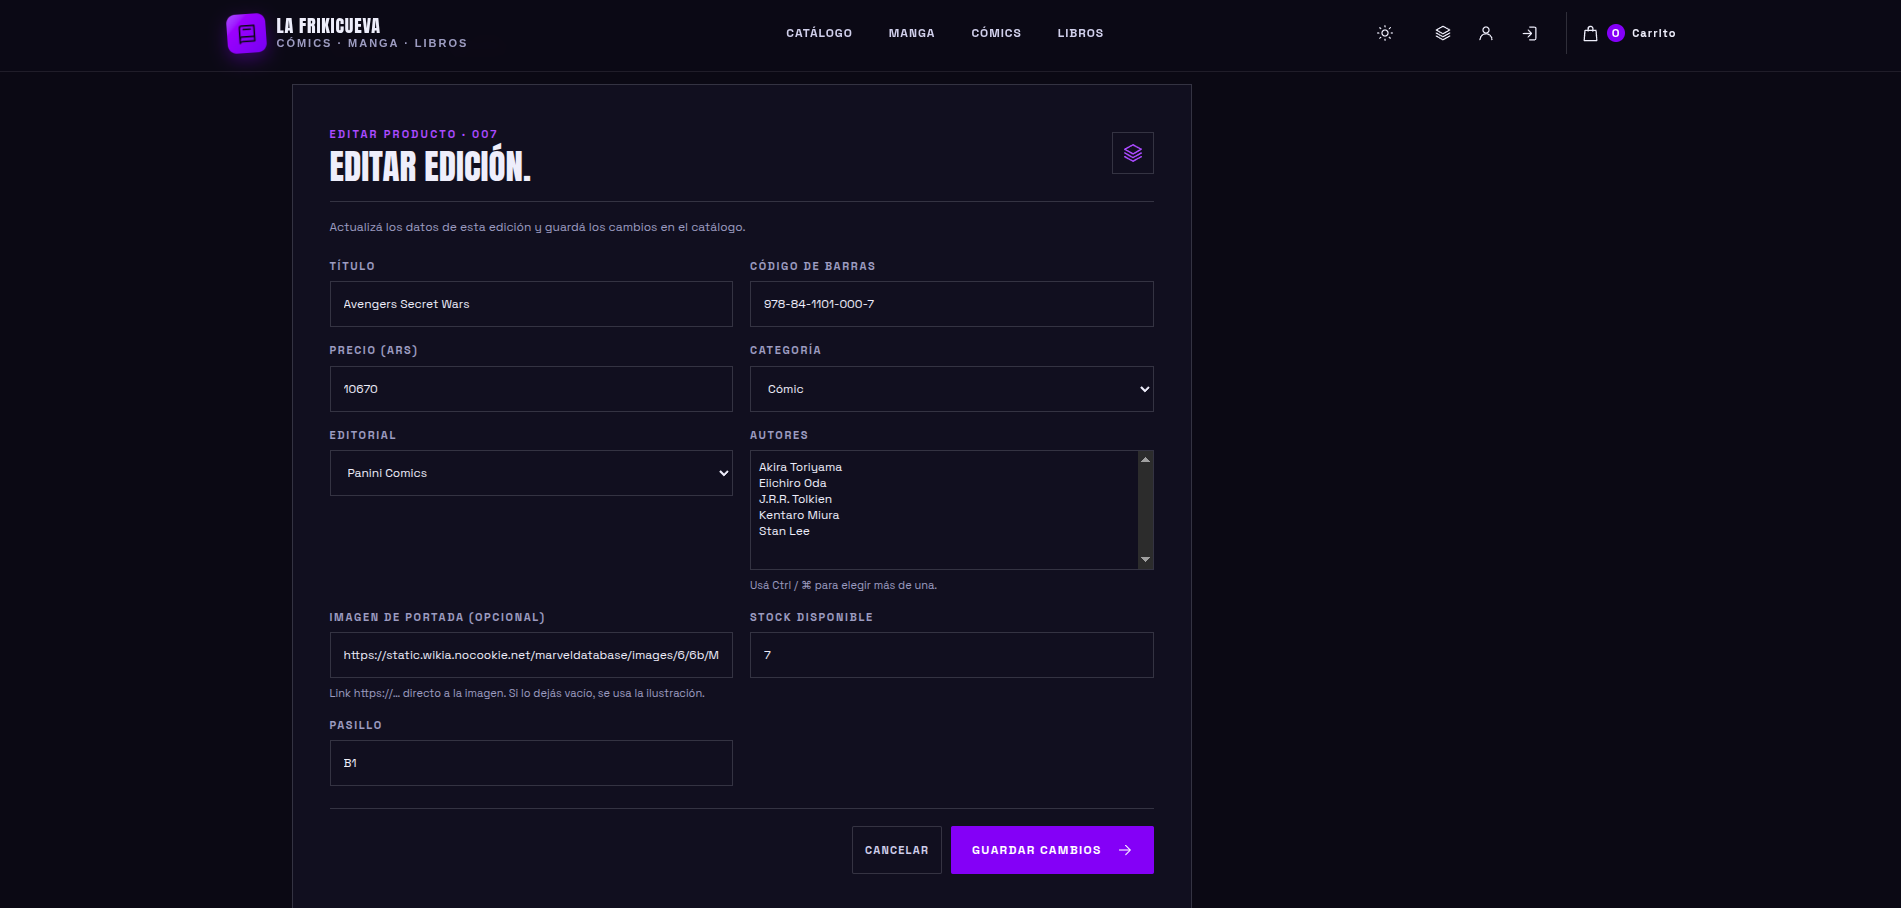
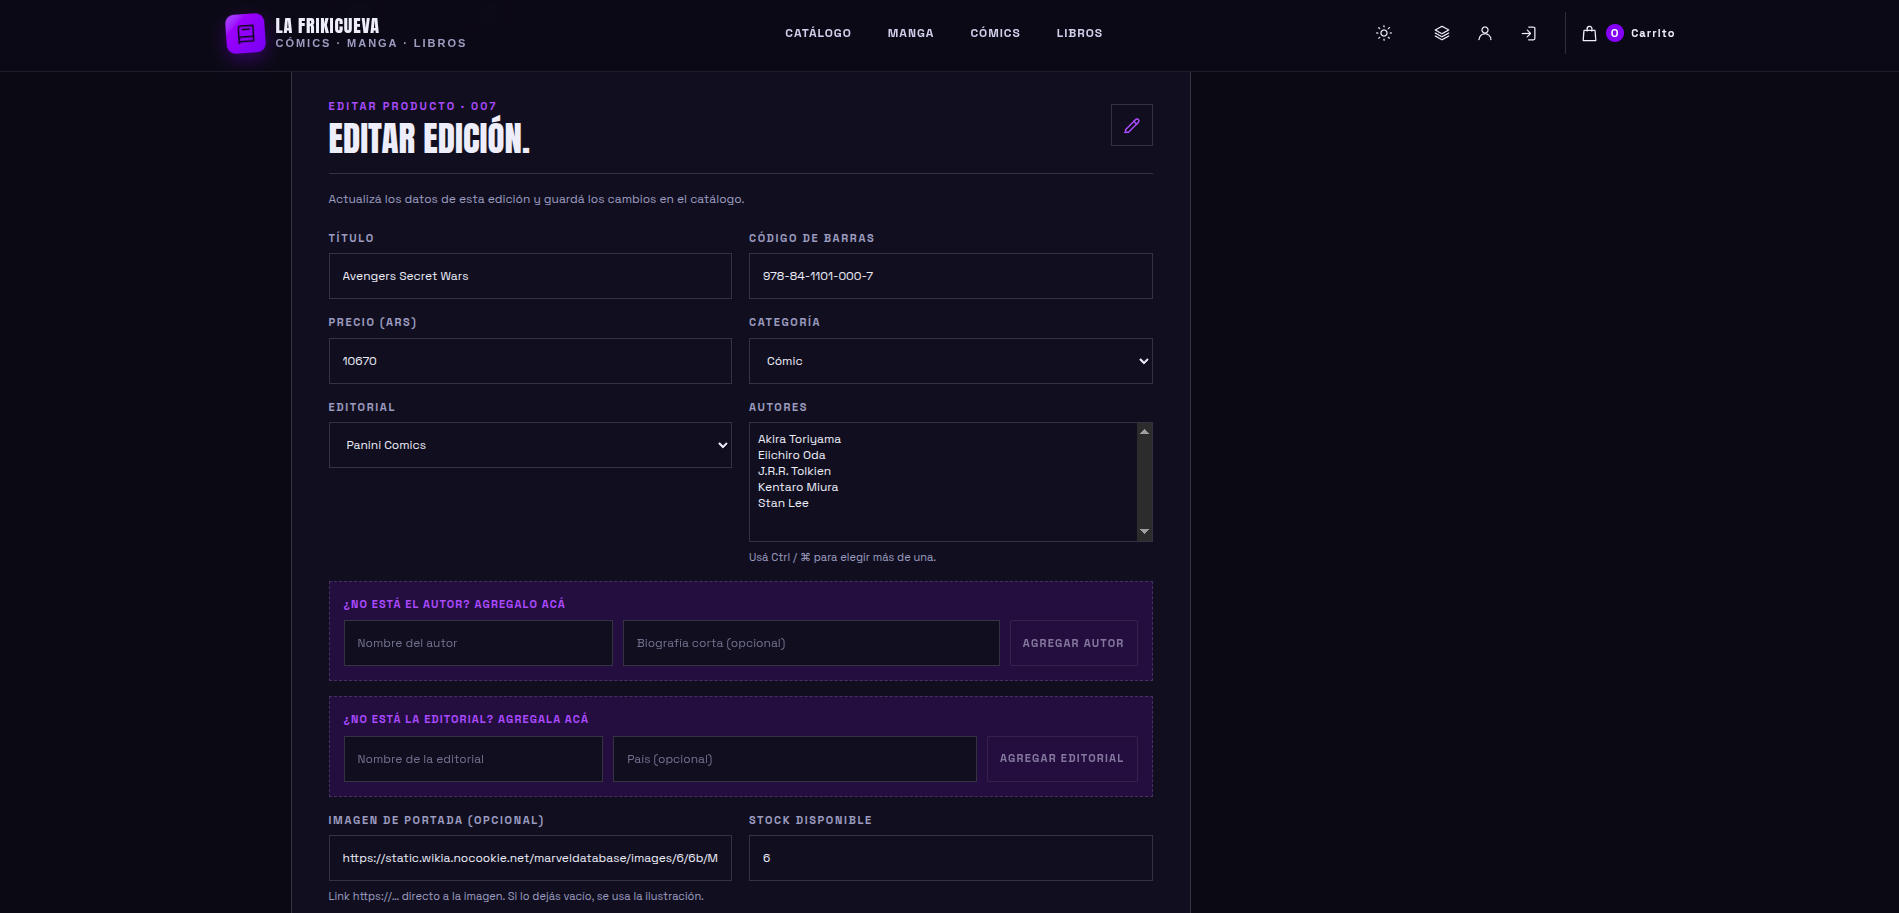
actualizo capturas de imagenes y readme nuevamente

diff --git a/README.md b/README.md
@@ -4,8 +4,8 @@ Tienda online argentina de **cómics, manga y libros**. Este repositorio es el *
 
 - **Aplicación desplegada:** _https://frikicueva.vercel.app/_
 - **Repositorio del backend:** _https://github.com/Lucasaruza17/efi_ing_
-- **API desplegada (Render + Supabase):** https://la-frikicueva-api-k2rw.onrender.com/
-- **Documentación de la API (Swagger):** https://la-frikicueva-api-k2rw.onrender.com/api/docs/swagger/
+- **API desplegada (Render + Supabase):** _https://la-frikicueva-api-k2rw.onrender.com/_
+- **Documentación de la API (Swagger):** _https://la-frikicueva-api-k2rw.onrender.com/api/docs/swagger/_
 - **Documentación local:** `http://localhost:8000/api/docs/swagger/`
 
 ## Funcionalidades
@@ -113,9 +113,7 @@ La app se publica en Vercel. En el proyecto de Vercel hay que cargar la variable
 
 ## Tablero Kanban y GitFlow
 - **Ramas (GitFlow):** `main` (versión entregada), `develop` (integración) y `feature/*` (una por funcionalidad, con su pull request hacia `develop`).
-
-Estado del tablero kanban al momento de la entrega:
-- **Tablero KanBan:** https://www.figma.com/design/wWI5Q63apz0cjZsa0KncMB/La-Frikicueva-%C2%B7-Tablero-Kanban?node-id=0-1&t=kd1p3LFjGNQQVmlJ-1
+- **Tablero KanBan:** _https://www.figma.com/design/wWI5Q63apz0cjZsa0KncMB/La-Frikicueva-%C2%B7-Tablero-Kanban?node-id=0-1&t=kd1p3LFjGNQQVmlJ-1_
 
 
 ## Equipo
